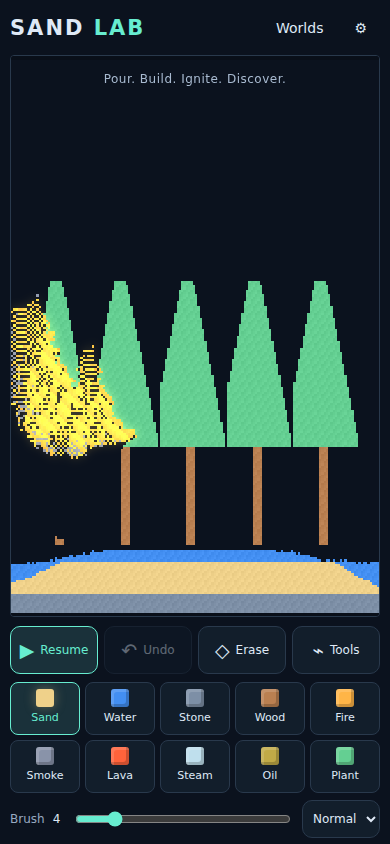
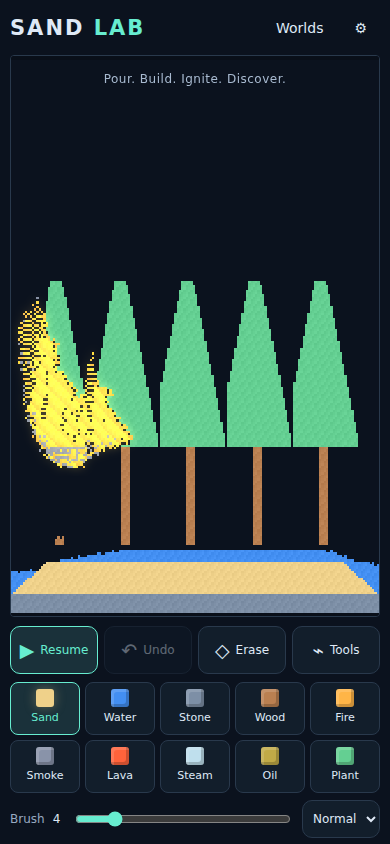
fix(sand-lab): respect Android insets and seal diagonal wall corners

diff --git a/sand-lab/web/engine.js b/sand-lab/web/engine.js
@@ -25,6 +25,7 @@ export class World {
  put(x,y,m,t){const i=this.index(x,y);if(i<0)return false;if(!Number.isInteger(m)||m<0||m>10)throw Error('Unknown material');this.set(i,m,t);return true;}
  set(i,m,t){this.cells[i]=m;this.temp[i]=t??(m===7?1100:m===5?650:m===8?150:20);this.life[i]=m===5?55:m===6?220:m===8?0:0;this.updated[i]=this.tick;}
  swap(a,b){let q=this.cells[a];this.cells[a]=this.cells[b];this.cells[b]=q;q=this.temp[a];this.temp[a]=this.temp[b];this.temp[b]=q;q=this.life[a];this.life[a]=this.life[b];this.life[b]=q;this.updated[a]=this.updated[b]=this.tick;}
+ canEnter(m,j){return j>=0&&(this.cells[j]===0||(!gas(m)&&materials[m].density>materials[this.cells[j]].density&&(liquid(this.cells[j])||gas(this.cells[j]))));}
  count(){const c=new Uint32Array(11);for(const m of this.cells)c[m]++;return c;}
  clear(){this.cells.fill(0);this.temp.fill(20);this.life.fill(0);this.updated.fill(0);this.tick=0;}
  step(){
@@ -66,7 +67,8 @@ export class World {
    for(let attempt=0;attempt<(liquid(m)||gas(m)?5:3);attempt++){
     const xx=attempt===0?x:attempt===1||attempt===3?x+s:x-s;
     const yy=attempt<3?y+dy:y,j=this.index(xx,yy);
-    if(j>=0&&(c[j]===0||(!gas(m)&&materials[m].density>materials[c[j]].density&&(liquid(c[j])||gas(c[j]))))){this.swap(i,j);moved=true;break;}
+    if((attempt===1||attempt===2)&&!this.canEnter(m,this.index(xx,y)))continue;
+    if(this.canEnter(m,j)){this.swap(i,j);moved=true;break;}
    }
    if(!moved)this.updated[i]=this.tick;
   }

diff --git a/sand-lab/web/presets.js b/sand-lab/web/presets.js
@@ -17,7 +17,7 @@ export function preset(name,w=160,h=240){
   basin();rect(.05,.16,.38,.018,M.STONE);rect(.05,.04,.025,.13,M.STONE);rect(.08,.05,.3,.11,M.WATER);
   for(let k=0;k<4;k++)rect(k%2?.36:.58,.3+k*.14,.23,.025,M.STONE);
  }else if(name==='Sand hourglass'){
-  for(let y=.16;y<.8;y+=1/h){const x=.5+Math.abs(y-.48)*.9;p(x,y,M.STONE);p(1-x,y,M.STONE);}
+  for(let y=.16;y<.8;y+=1/h){const x=.5+Math.max(.025,Math.abs(y-.48)*.9);p(x,y,M.STONE);p(1-x,y,M.STONE);}
   rect(.2,.15,.6,.015,M.STONE);rect(.2,.8,.6,.015,M.STONE);
   for(let y=.19;y<.43;y+=1/h)for(let x=.23;x<.77;x+=1/w)if(Math.abs(x-.5)<Math.abs(y-.48)*.9-.02)p(x,y,M.SAND);
  }else if(name==='Oil fire'){

diff --git a/sand-lab/android/app/src/main/java/com/andrefiker/sandlab/MainActivity.java b/sand-lab/android/app/src/main/java/com/andrefiker/sandlab/MainActivity.java
@@ -7,6 +7,7 @@ import android.content.Intent;
 import android.graphics.Color;
 import android.view.View;
 import android.view.WindowInsets;
+import android.widget.FrameLayout;
 import android.webkit.*;
 import java.io.*;
 import java.nio.charset.StandardCharsets;
@@ -22,12 +23,14 @@ public class MainActivity extends Activity {
   if(Build.VERSION.SDK_INT>=30)getWindow().setDecorFitsSystemWindows(false);
   else getWindow().getDecorView().setSystemUiVisibility(View.SYSTEM_UI_FLAG_LAYOUT_STABLE|View.SYSTEM_UI_FLAG_LAYOUT_FULLSCREEN|View.SYSTEM_UI_FLAG_LAYOUT_HIDE_NAVIGATION);
   web=new WebView(this);web.setBackgroundColor(Color.rgb(11,18,30));
-  web.setOnApplyWindowInsetsListener((v,insets)->{
+  FrameLayout root=new FrameLayout(this);root.setBackgroundColor(Color.rgb(11,18,30));
+  root.addView(web,new FrameLayout.LayoutParams(-1,-1));
+  root.setOnApplyWindowInsetsListener((v,insets)->{
    if(Build.VERSION.SDK_INT>=30){android.graphics.Insets b=insets.getInsets(WindowInsets.Type.systemBars()|WindowInsets.Type.displayCutout());v.setPadding(b.left,b.top,b.right,b.bottom);}
    else v.setPadding(insets.getSystemWindowInsetLeft(),insets.getSystemWindowInsetTop(),insets.getSystemWindowInsetRight(),insets.getSystemWindowInsetBottom());
    return insets;
   });
-  setContentView(web);web.requestApplyInsets();
+  setContentView(root);root.requestApplyInsets();
   WebSettings s=web.getSettings();s.setJavaScriptEnabled(true);s.setDomStorageEnabled(true);s.setAllowFileAccess(false);s.setAllowContentAccess(false);s.setMixedContentMode(WebSettings.MIXED_CONTENT_NEVER_ALLOW);s.setTextZoom(100);s.setSupportZoom(false);s.setMediaPlaybackRequiresUserGesture(true);
   web.setOverScrollMode(View.OVER_SCROLL_NEVER);
   web.setWebChromeClient(new WebChromeClient());

diff --git a/sand-lab/scripts/android-qa.py b/sand-lab/scripts/android-qa.py
@@ -9,7 +9,13 @@ def find(text,exact=False,timeout=25):
  end=time.time()+timeout
  while time.time()<end:
   found=[]
-  for n in nodes():
+  current=nodes()
+  # A known emulator launcher ANR is unrelated to the app. Never dismiss an app ANR.
+  if any(n.attrib.get('text')=="Pixel Launcher isn't responding" for n in current):
+   close=next(n for n in current if n.attrib.get('resource-id')=='android:id/aerr_close')
+   b=list(map(int,re.findall(r'\d+',close.attrib['bounds'])))
+   adb('shell','input','tap',str((b[0]+b[2])//2),str((b[1]+b[3])//2));time.sleep(2);continue
+  for n in current:
    values=[n.attrib.get('text',''),n.attrib.get('content-desc','')]
    if any((v==text if exact else text.casefold() in v.casefold()) for v in values):
     b=list(map(int,re.findall(r'\d+',n.attrib['bounds'])))
@@ -32,7 +38,7 @@ adb('install','-r','Sand-Lab-v1.0.0.apk')
 adb('shell','settings','put','global','airplane_mode_on','1')
 adb('shell','svc','wifi','disable');adb('shell','svc','data','disable')
 adb('shell','am','start','-W','-n','com.andrefiker.sandlab/.MainActivity');time.sleep(5)
-shot('android-launch.png');find('Worlds');find('Pause')
+find('Worlds');find('Pause');assert find('Worlds')[1]>=48,'Header overlaps status bar';shot('android-launch.png')
 tap('Pause');find('Resume')
 # Draw a continuous stroke in the upper, empty part of the world.
 size=list(map(int,re.findall(r'\d+',adb('shell','wm','size'))[-2:]));w,h=size

diff --git a/APPFARM_STATE.md b/APPFARM_STATE.md
@@ -128,7 +128,7 @@ Vercel:
 ## Current app releases
 
[6 lines of base64/hex data omitted]
@@ -142,4 +142,4 @@ Vercel:
 
 ## SAND LAB 1.0.0 — isolated release branch
 
-Source and wrapper: sand-lab/, branch sand-lab/v1.0.0 (no merge to main). Package com.andrefiker.sandlab/versionCode 1. Ten-material offline sandbox. Signed APK release/Sand-Lab-v1.0.0.apk, SHA-256 1e97f71eda555e430ecdd9611ec81445ad87f8babbeacbacaecfc6d6c081d5de. 32 deterministic tests, browser interaction and six live experiment playtests pass; APK package/assets/v2-v3 signature/alignment/zero-permissions verified. Android 15 emulator release gate defined in sand-lab-release.yml; inspect its result before claiming native QA/publication. Private signing-key continuity and detailed evidence are in sand-lab/APP_STATE.md. Rollback: 0db2815c14b727031d63e7c14ef0a75255690e90.
+Source and wrapper: sand-lab/, branch sand-lab/v1.0.0 (no merge to main). Package com.andrefiker.sandlab/versionCode 1. Ten-material offline sandbox. Signed APK release/Sand-Lab-v1.0.0.apk, SHA-256 123f988848e8ccc50e154bd083283a1d03d0688bb09e9c7018cca305c895c51c. 34 deterministic tests, browser interaction and six live experiment playtests pass; APK package/assets/v2-v3 signature/alignment/zero-permissions verified. Android 15 emulator release gate defined in sand-lab-release.yml; inspect its result before claiming native QA/publication. Private signing-key continuity and detailed evidence are in sand-lab/APP_STATE.md. Rollback: 0db2815c14b727031d63e7c14ef0a75255690e90.

diff --git a/sand-lab/APP_STATE.md b/sand-lab/APP_STATE.md
@@ -3,10 +3,10 @@
 - Identity: SAND LAB 1.0.0 / versionCode 1, com.andrefiker.sandlab, Android API 26–35.
 - Architecture: dependency-free Canvas cellular grid, local IndexedDB worlds and session autosave; tiny Java WebView with intercepted bundled assets. No backend or permissions.
 - Branch: sand-lab/v1.0.0. Source commit is the commit targeted by release tag sand-lab-v1.0.0. No main merge.
-- APK: release/Sand-Lab-v1.0.0.apk, SHA-256 1e97f71eda555e430ecdd9611ec81445ad87f8babbeacbacaecfc6d6c081d5de.
+- APK: release/Sand-Lab-v1.0.0.apk, SHA-256 123f988848e8ccc50e154bd083283a1d03d0688bb09e9c7018cca305c895c51c.
 - Signature: dedicated self-signed test RSA 3072 key; APK v2/v3 verified. Certificate SHA-256 56d85ae7c775ed79efe86fa5e07ea47b34d8cd0fa7e8dc3235731f5760ad8c7c.
 - Private upgrade key: Library libfile_cc92934a31ec81918a1da48d7a26d42c, Sand-Lab-signing-v1.p12, alias sandlab, test password android. Do not publish the key. APK Library copy libfile_edca1bcce3988191845c903e2431175a.
-- Verified locally: 32 deterministic tests; browser painting, undo/redo, pause/speed, save/load/rename/duplicate/delete, settings/camera, background session restoration; live playtests of all six experiments; no browser errors or remote requests; 360×640, 390×844, 768×1024 layouts. APK ZIP/assets/package/version/launchable activity/alignment/signature; zero permissions.
+- Verified locally: 34 deterministic tests; browser painting, undo/redo, pause/speed, save/load/rename/duplicate/delete, settings/camera, background session restoration; live playtests of all six experiments; no browser errors or remote requests; 360×640, 390×844, 768×1024 layouts. APK ZIP/assets/package/version/launchable activity/alignment/signature; zero permissions.
 - Worst-case full standard grid mean step times in desktop Chromium: water 3.4 ms, fire 8.5 ms, smoke 2.4 ms, lava 2.8 ms. These are host measurements, not phone benchmarks.
 - Local software emulator attempted without KVM; ADB did not become available. CI release gate runs Android 15 emulator install/offline/UI/persistence checks before publication. Its results must be inspected; no physical-device test is claimed.
 - Release: https://github.com/andrefiker/appfarm/releases/tag/sand-lab-v1.0.0 (published only after CI gate).

diff --git a/sand-lab/docs/SIMULATION.md b/sand-lab/docs/SIMULATION.md
@@ -4,7 +4,7 @@ IDs are permanent: 0 air, 1 sand, 2 water, 3 stone, 4 wood, 5 fire, 6 smoke, 7 l
 
 Each 1/30 simulation second first exchanges heat between occupied right/down neighbor pairs. Exchange is 0.035 of the old difference per pair, applied simultaneously, then heat relaxes 0.2% toward 20 and clamps to −100…1500 game units. Air insulates. Heat is not measured in °C. Lava resets its own heat to 1100; fire to 650.
 
-Movement scans bottom to top with seeded alternation of horizontal scan direction. Each particle considers down (up for gas), then diagonals in seeded order, then sideways for liquids/gases. Density ordering is sand > lava > water > oil > gases > air. Solids do not swap. A move swaps material, temperature and lifetime atomically. Update stamps stop a moving particle from receiving its normal update twice. A displaced lighter particle can be displaced again by another particle, preserving occupancy. No wraparound; boundaries are sealed. Lava moves only every fourth tick.
+Movement scans bottom to top with seeded alternation of horizontal scan direction. Each particle considers down (up for gas), then diagonals in seeded order, then sideways for liquids/gases. Density ordering is sand > lava > water > oil > gases > air. Solids do not swap. A move swaps material, temperature and lifetime atomically. Update stamps stop a moving particle from receiving its normal update twice. A displaced lighter particle can be displaced again by another particle, preserving occupancy. Diagonal motion also requires a passable horizontal neighbor, so particles cannot cut through a sealed diagonal corner. No wraparound; boundaries are sealed. Lava moves only every fourth tick.
 
 Rules, creation and consumption:
 

diff --git a/sand-lab/RELEASE_NOTES.md b/sand-lab/RELEASE_NOTES.md
@@ -4,7 +4,7 @@ Ten interacting materials, six live experiments, three themes, left-handed contr
 
 Package com.andrefiker.sandlab · versionCode 1 · Android 8+. Zero permissions, no internet, no ads or analytics. All assets are bundled. Dedicated self-signed test key; v2/v3 signature. Complete source and tests are in sand-lab/ at this release tag; main is unchanged.
 
-Verification: 32 deterministic tests, phone-sized browser interaction and live experiment playtests, APK ZIP/assets/package/signature/alignment checks. This release is gated on Android 15 emulator installation and offline UI checks; screenshots and results are retained as the sand-lab-verification workflow artifact. Physical-phone performance and touch ergonomics remain untested.
+Verification: 34 deterministic tests, phone-sized browser interaction and live experiment playtests, APK ZIP/assets/package/signature/alignment checks. This release is gated on Android 15 emulator installation and offline UI checks; screenshots and results are retained as the sand-lab-verification workflow artifact. Physical-phone performance and touch ergonomics remain untested.
 
 Limitations: no audio/haptics, pinch zoom or extra materials. Large worlds may run slower. Autosave is periodic and on background; export important worlds before uninstalling.
 
